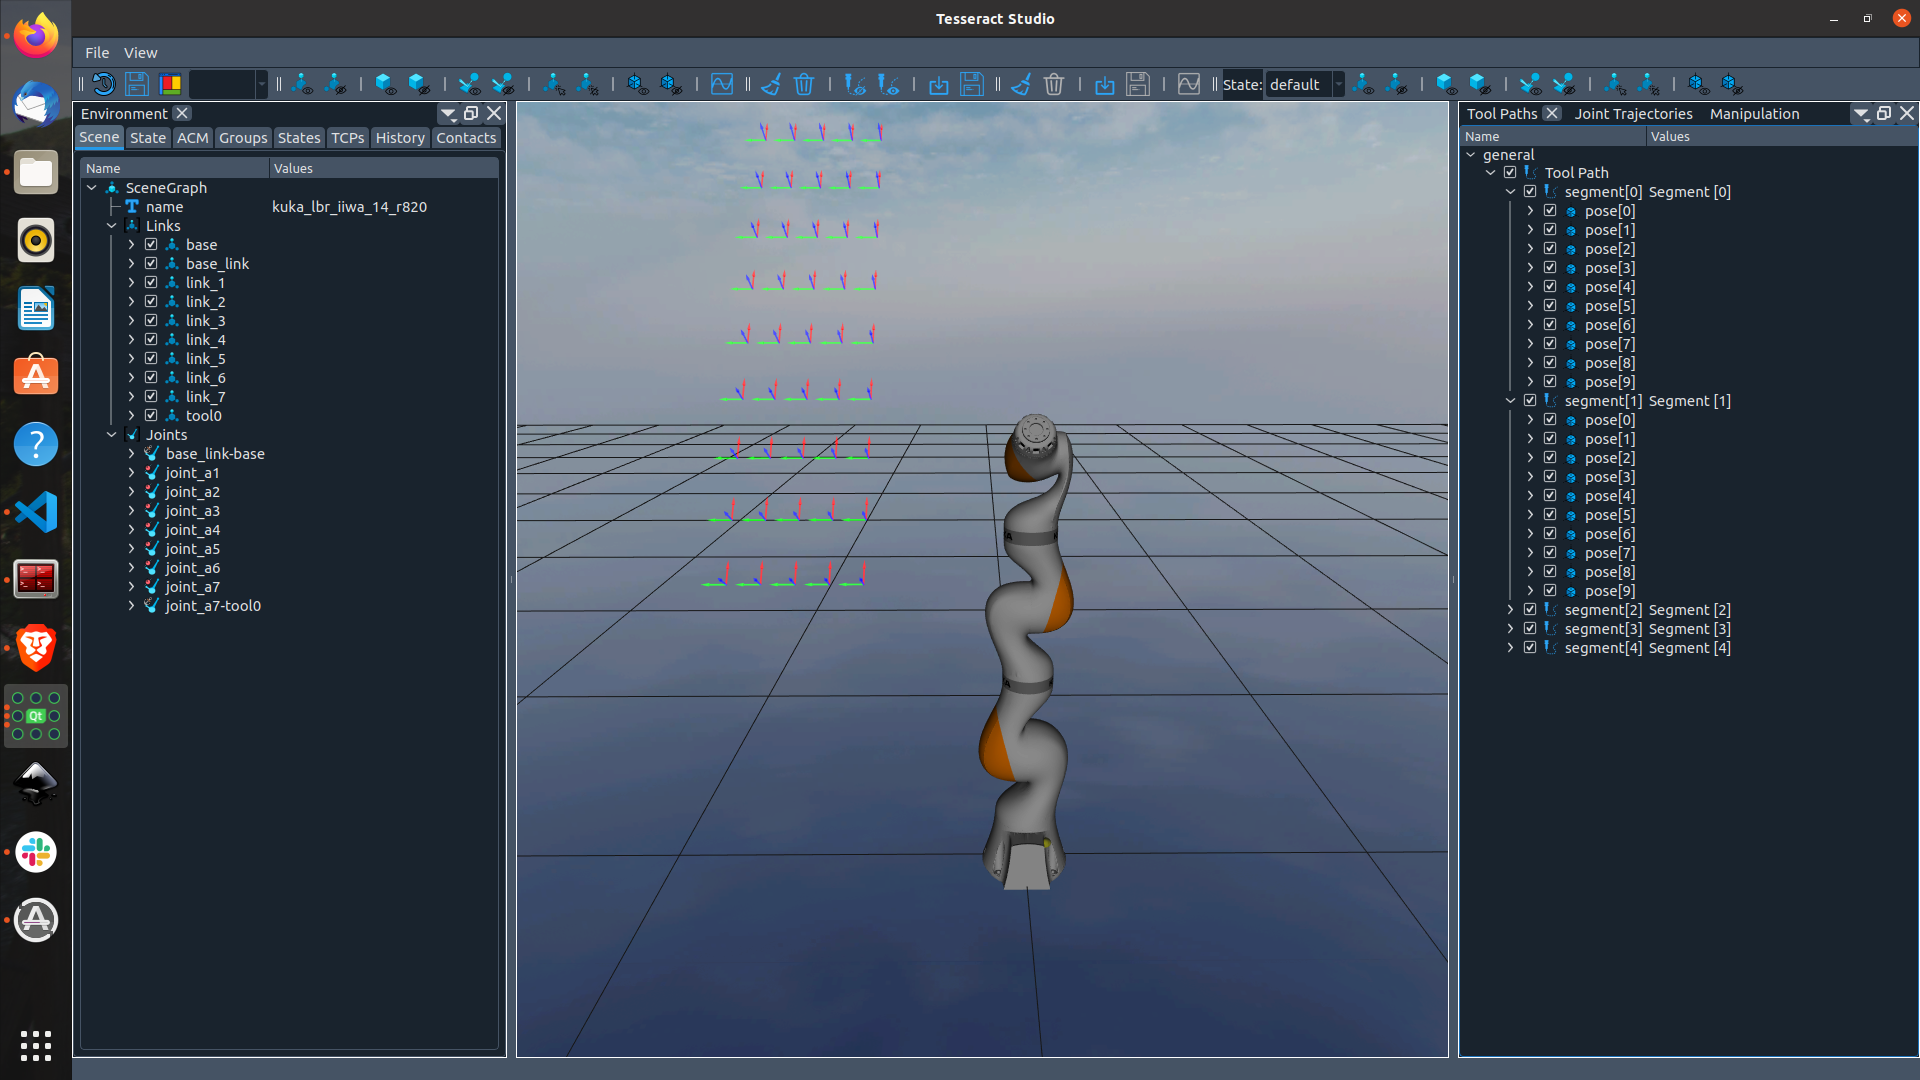
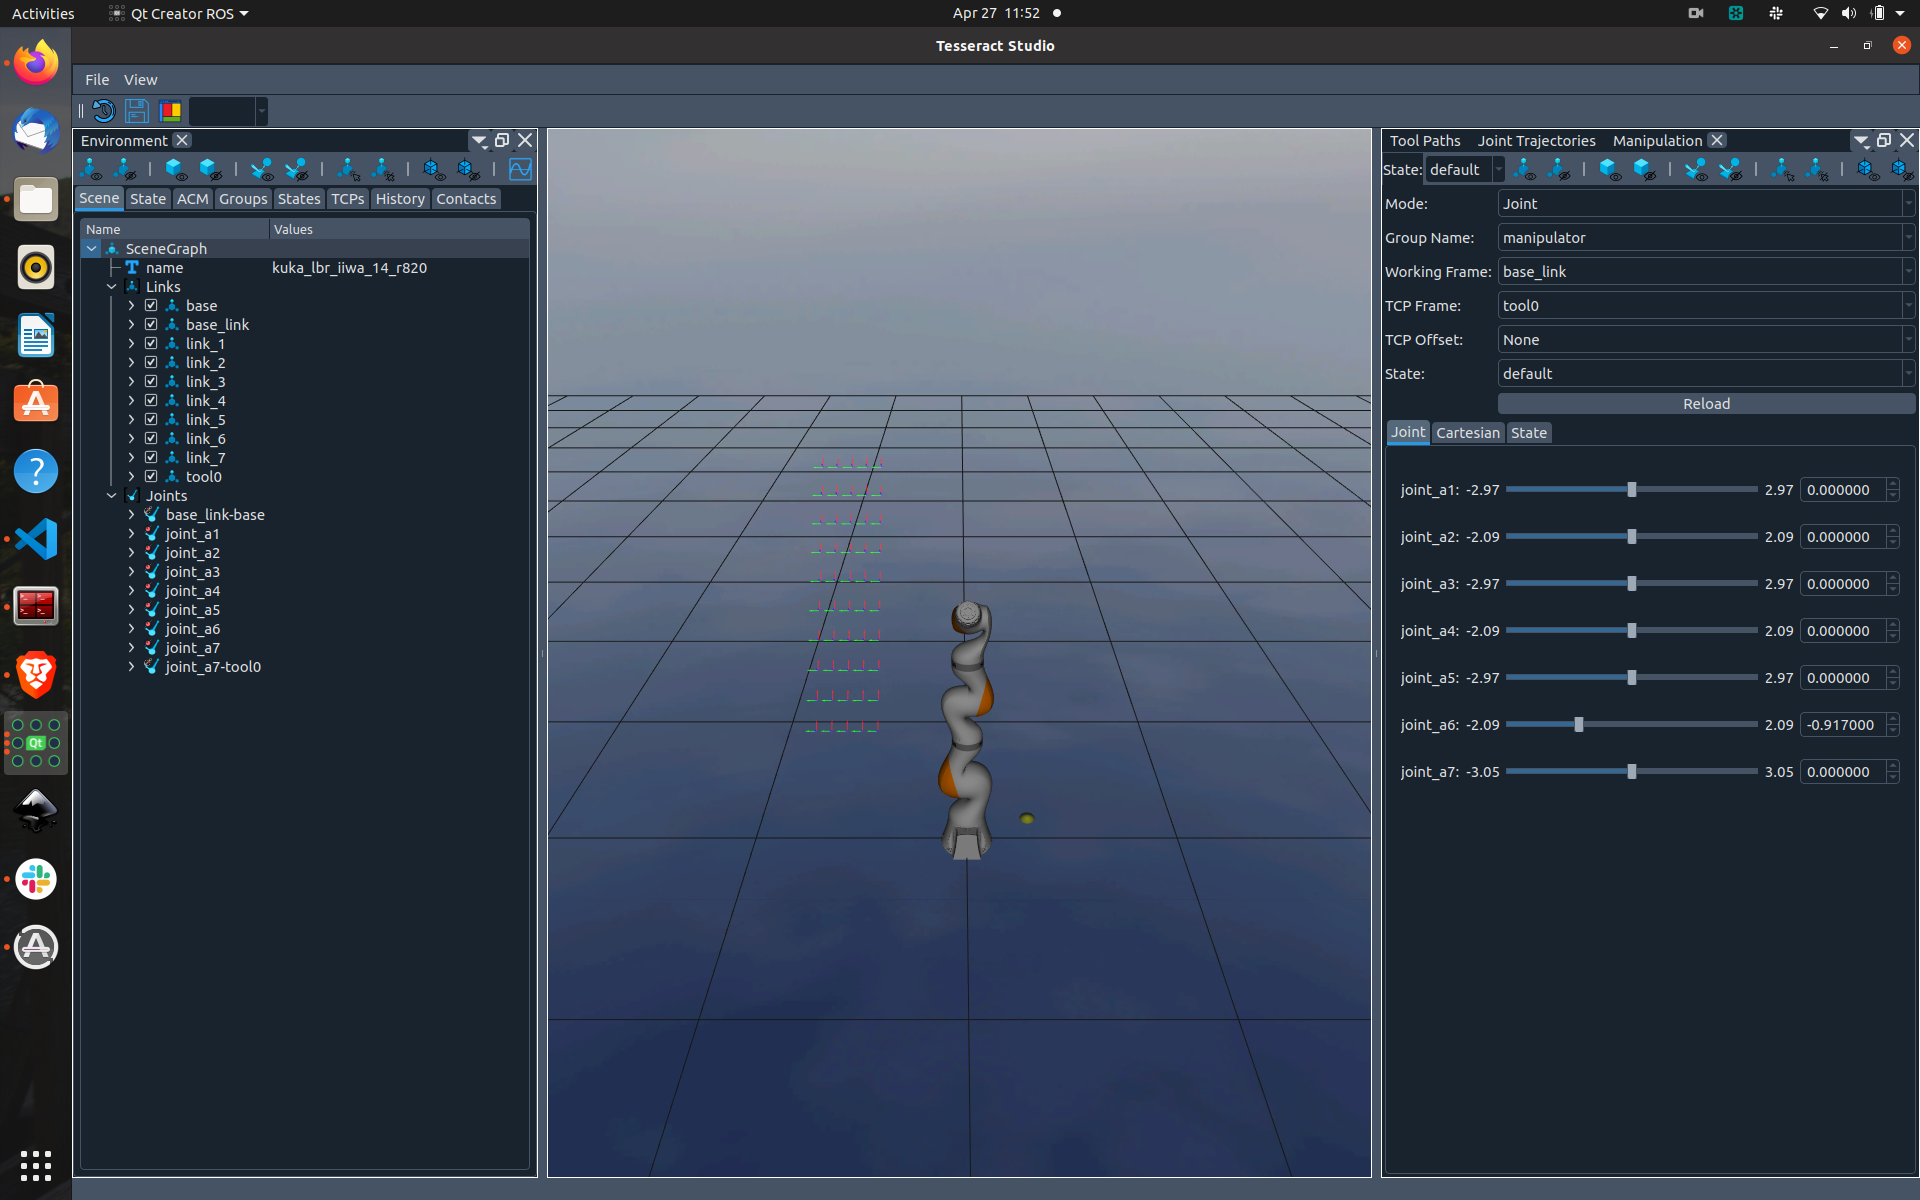
Move toolbars to the dock widgets

diff --git a/studio/src/studio.cpp b/studio/src/studio.cpp
@@ -182,42 +182,40 @@ Studio::Studio(QWidget* parent)
           data_->dock_manager,
           SLOT(openPerspective(const QString&)));
 
-  addToolBar(new tesseract_gui::SceneGraphToolBar(data_->component_info));
-  addToolBar(new tesseract_gui::ToolPathToolBar(data_->component_info));
-  addToolBar(new tesseract_gui::JointTrajectoryToolBar(data_->jt_component_info));
-  addToolBar(new tesseract_gui::ManipulationToolBar(data_->component_info));
-
   auto render_widget = new tesseract_gui::RenderWidget(data_->component_info.scene_name);
   render_widget->setSkyEnabled(true);
   auto* render_dock_widget = new ads::CDockWidget("Scene");
   render_dock_widget->setWidget(render_widget);
   render_dock_widget->setFeature(ads::CDockWidget::DockWidgetFocusable, true);
-  auto* central_dock_area = data_->dock_manager->setCentralWidget(render_dock_widget);
-  central_dock_area->setAllowedAreas(ads::DockWidgetArea::OuterDockAreas);
+  auto* central_area = data_->dock_manager->setCentralWidget(render_dock_widget);
+  central_area->setAllowedAreas(ads::DockWidgetArea::OuterDockAreas);
 
-  auto* env_widget = new tesseract_gui::EnvironmentWidget(data_->component_info);
   auto* env_dock_widget = new ads::CDockWidget("Environment");
-  env_dock_widget->setWidget(env_widget);
-  data_->dock_manager->addDockWidget(ads::LeftDockWidgetArea, env_dock_widget, central_dock_area);
+  env_dock_widget->setWidget(new tesseract_gui::EnvironmentWidget(data_->component_info));
+  env_dock_widget->setToolBar(new tesseract_gui::SceneGraphToolBar(data_->component_info));
+  env_dock_widget->toolBar()->setIconSize(QSize(25, 25));
+  data_->dock_manager->addDockWidget(ads::LeftDockWidgetArea, env_dock_widget, central_area);
   ui->menuView->addAction(env_dock_widget->toggleViewAction());
 
-  auto* tool_path_widget = new tesseract_gui::ToolPathWidget(data_->component_info);
   auto* tool_path_dock_widget = new ads::CDockWidget("Tool Paths");
-  tool_path_dock_widget->setWidget(tool_path_widget);
-  auto* right_dock_area =
-      data_->dock_manager->addDockWidget(ads::RightDockWidgetArea, tool_path_dock_widget, central_dock_area);
+  tool_path_dock_widget->setWidget(new tesseract_gui::ToolPathWidget(data_->component_info));
+  tool_path_dock_widget->setToolBar(new tesseract_gui::ToolPathToolBar(data_->component_info));
+  tool_path_dock_widget->toolBar()->setIconSize(QSize(25, 25));
+  auto* right_area = data_->dock_manager->addDockWidget(ads::RightDockWidgetArea, tool_path_dock_widget, central_area);
   ui->menuView->addAction(tool_path_dock_widget->toggleViewAction());
 
-  auto* joint_traj_widget = new tesseract_gui::JointTrajectoryWidget(data_->jt_component_info);
   auto* joint_traj_dock_widget = new ads::CDockWidget("Joint Trajectories");
-  joint_traj_dock_widget->setWidget(joint_traj_widget);
-  data_->dock_manager->addDockWidgetTabToArea(joint_traj_dock_widget, right_dock_area);
+  joint_traj_dock_widget->setWidget(new tesseract_gui::JointTrajectoryWidget(data_->jt_component_info));
+  joint_traj_dock_widget->setToolBar(new tesseract_gui::JointTrajectoryToolBar(data_->jt_component_info));
+  joint_traj_dock_widget->toolBar()->setIconSize(QSize(25, 25));
+  data_->dock_manager->addDockWidgetTabToArea(joint_traj_dock_widget, right_area);
   ui->menuView->addAction(joint_traj_dock_widget->toggleViewAction());
 
-  auto* manipulation_widget = new tesseract_gui::ManipulationWidget(data_->component_info, true);
   auto* manipulation_dock_widget = new ads::CDockWidget("Manipulation");
-  manipulation_dock_widget->setWidget(manipulation_widget);
-  data_->dock_manager->addDockWidgetTabToArea(manipulation_dock_widget, right_dock_area);
+  manipulation_dock_widget->setWidget(new tesseract_gui::ManipulationWidget(data_->component_info, true));
+  manipulation_dock_widget->setToolBar(new tesseract_gui::ManipulationToolBar(data_->component_info));
+  manipulation_dock_widget->toolBar()->setIconSize(QSize(25, 25));
+  data_->dock_manager->addDockWidgetTabToArea(manipulation_dock_widget, right_area);
   ui->menuView->addAction(manipulation_dock_widget->toggleViewAction());
 
   //  data_->restoreState(); If this is enabled widgets do not show up if name change
